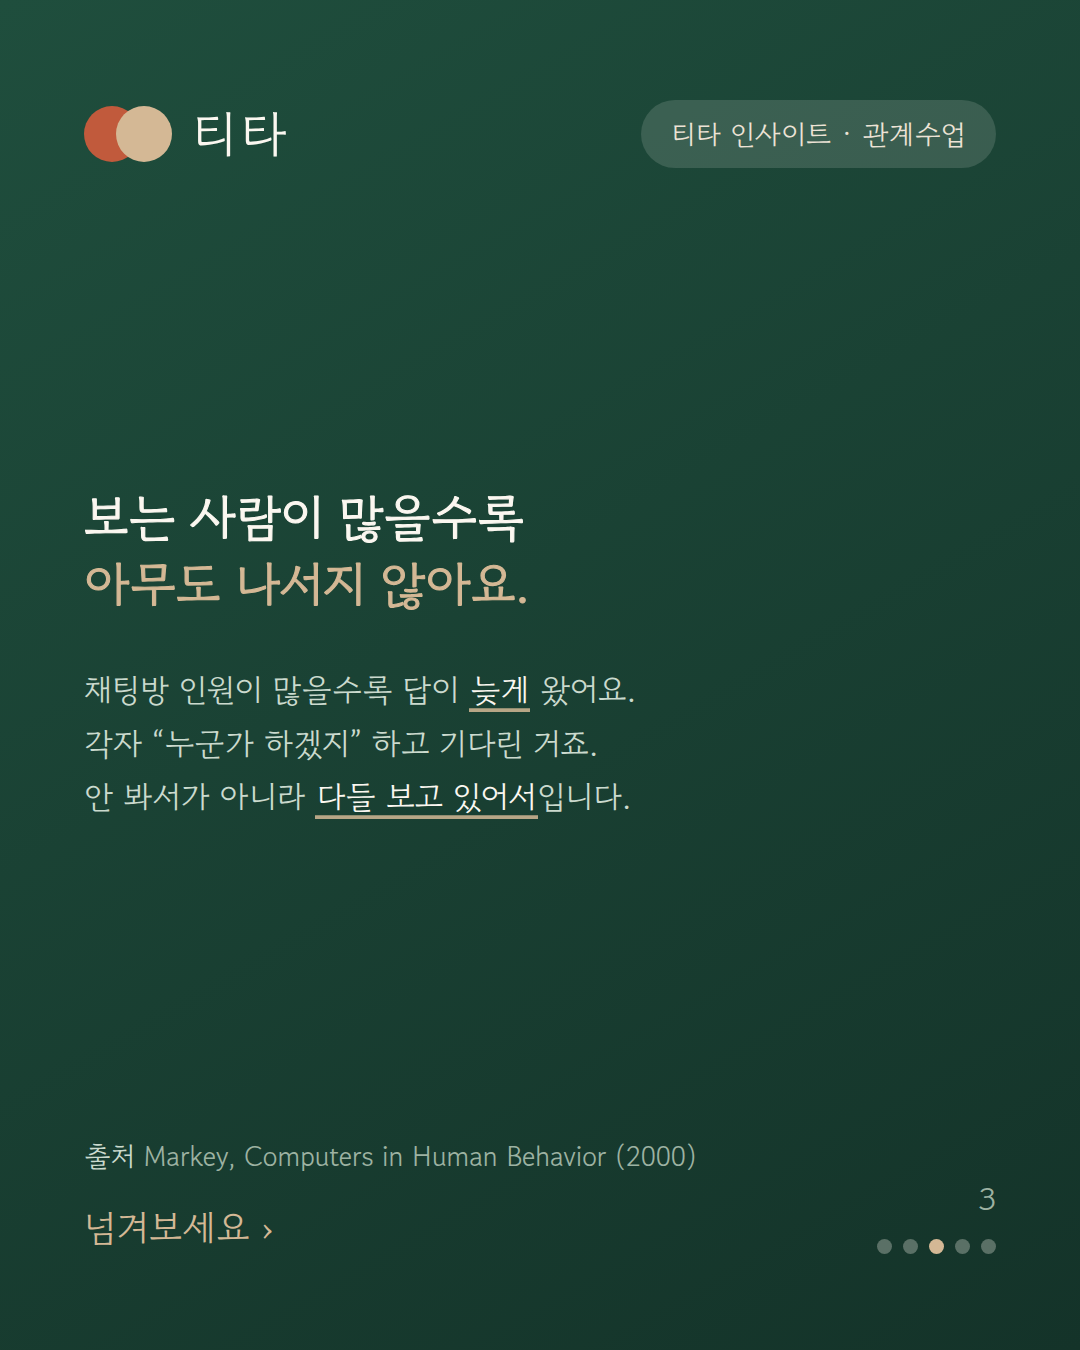
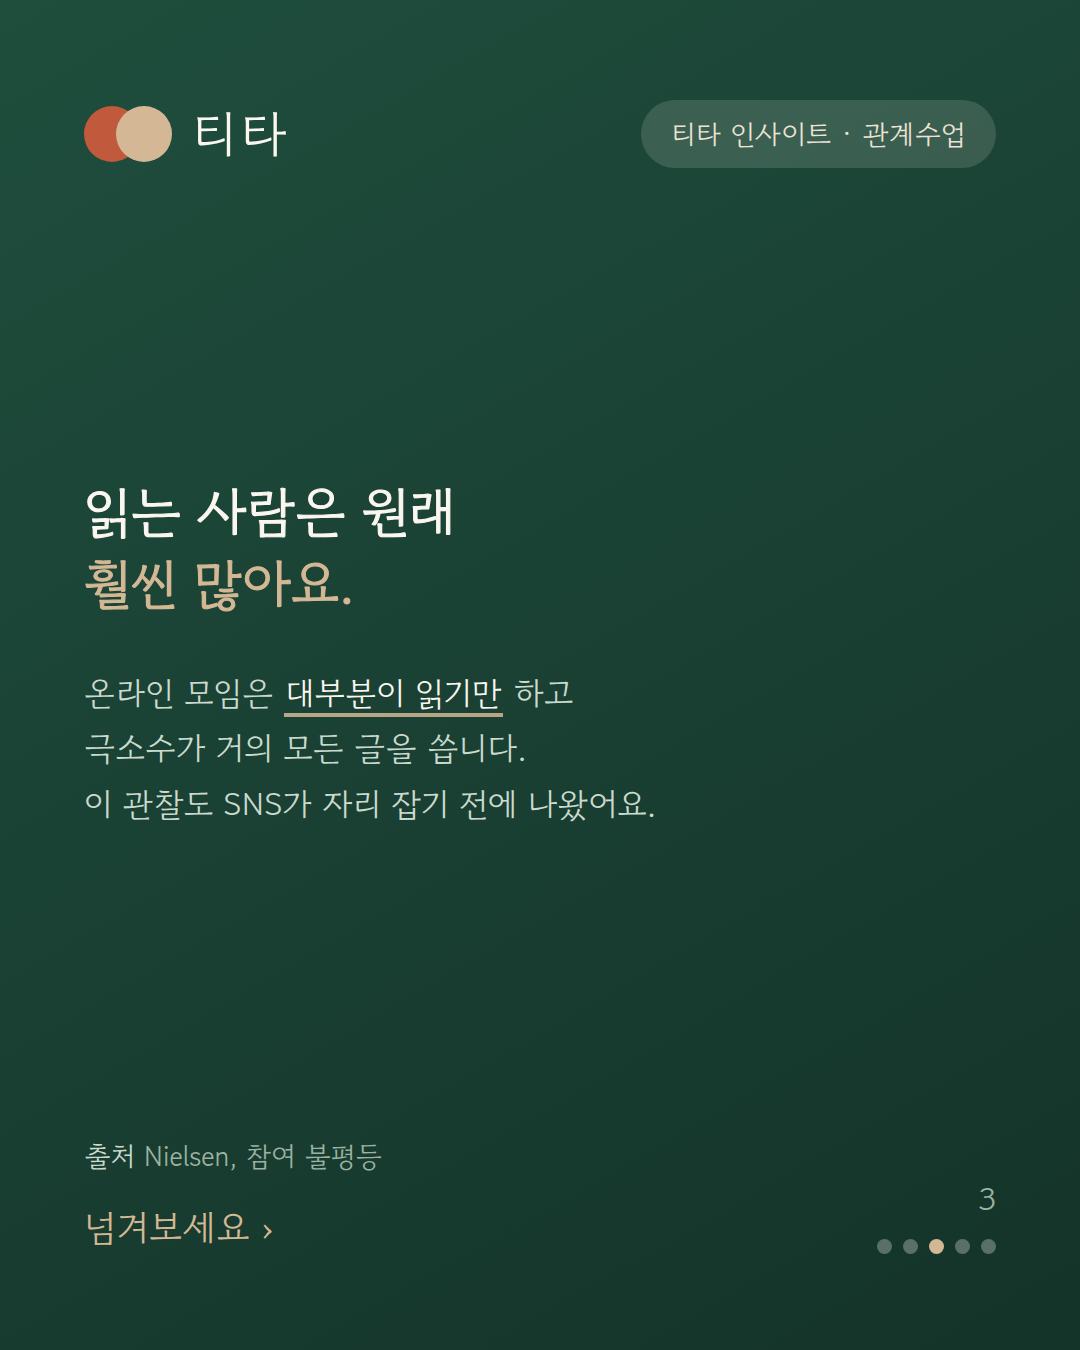
refactor(blog): 인사이트 14를 세대론 반박으로 다시 쓴다
'답글이 없는 이유' 대신 '말이 안 통하는 건 세대 탓이 아니다'를 축으로
삼는다. 방관자 효과는 1968년, 참여 불평등은 SNS 이전 관찰이라는 점이
세대론을 정면으로 반박하는 근거라서 이걸 앞으로 뺐다.

특정 커뮤니티 글을 인용한 듯 읽히는 표현은 모두 걷어냈다.
카드 1~3도 같은 순서로 다시 뽑았다. 4·5는 그대로다.

Claude-Session: https://claude.ai/code/session_01SVoaR1M7XWjiBzTKquaj1d

Changed region(s): [[0.0611, 0.4978, 0.6111, 0.6222], [0.0611, 0.3422, 0.4889, 0.4667], [0.1222, 0.84, 0.6417, 0.8711]]

diff --git a/src/app/blog/posts.ts b/src/app/blog/posts.ts
@@ -62,92 +62,96 @@ export interface BlogPost {
 export const POSTS: BlogPost[] = [
   {
     slug: "why-no-one-replies",
-    title: "글을 올렸는데 답이 없을 때 — 첫 한 줄이 없어서입니다",
+    title: "요즘 젊은 사람들은 말이 안 통한다고요 — 사실 우리도 그렇습니다",
     description:
-      "커뮤니티에 글을 올려도 답이 없습니다. 안 읽어서가 아닙니다. 10만 건을 무작위로 실험한 연구는 첫 반응 하나가 다음 반응을 32% 끌어올린다고 말합니다.",
+      "남의 말은 안 듣고 자기 얘기만 한다는 말, 젊은 세대만의 이야기가 아닙니다. 방관자 효과는 1968년에 발견됐습니다. 세대 탓이 아니라 사람이 여럿 모이면 생기는 일입니다.",
     date: "2026-08-10",
     category: "관계 인사이트",
     tags: [
       "5060",
-      "커뮤니티",
+      "세대",
       "소통",
-      "댓글",
+      "커뮤니티",
       "방관자 효과",
-      "온라인 모임",
       "대화",
       "인간관계",
+      "댓글",
     ],
     cover: "/blog/insight-14/card-1.png",
     readingMinutes: 6,
     body: [
       {
         type: "p",
-        text: "얼마 전 티타 커뮤니티에 이런 이야기가 올라왔습니다. 요즘 부쩍 느끼는데 **상대 말은 듣지 않고 자기 얘기만 하고, 남의 글은 읽지 않고 자기 글만 올리는** 사람이 많아진 것 같다고요. 소통은 어디로 갔느냐고요.",
+        text: "요즘 젊은 사람들은 말이 안 통한다는 얘기를 자주 듣습니다. 릴스만 넘기고, 남의 말은 듣지 않고, 자기 얘기만 한다고요.",
       },
       {
         type: "p",
-        text: "저희도 같은 걸 봅니다. 정성껏 쓴 글에 답이 하나도 안 달립니다. 그런데 자료를 찾아보니 **사람들이 무심해진 게 원인이 아니었습니다.** 그리고 무엇이 실제로 통하는지도 실험으로 나와 있었습니다.",
+        text: "그런데 조금만 솔직해지면, 우리 자리도 크게 다르지 않습니다. 모임에서도 각자 자기 얘기만 하다 헤어지고, 커뮤니티에 정성껏 쓴 글에는 아무 답이 없습니다. **말이 안 통하는 게 그 세대만의 일은 아닌 것 같습니다.**",
+      },
+      {
+        type: "p",
+        text: "자료를 찾아보니 그럴 만한 이유가 있었습니다. **이건 세대 문제가 아니었습니다.**",
       },
       {
         type: "image",
         src: "/blog/insight-14/card-1.png",
-        alt: "글에 답이 없는 건 안 읽어서가 아니라 첫 한 줄이 없어서라는 티타 인사이트 카드",
+        alt: "말이 안 통하는 건 세대 탓이 아니라는 티타 인사이트 카드",
         caption: "티타 인사이트 · 관계수업 #14",
       },
-      { type: "h2", text: "읽는 사람은 원래 훨씬 많습니다" },
+      { type: "h2", text: "스마트폰이 생기기 훨씬 전부터 그랬습니다" },
       {
         type: "image",
         src: "/blog/insight-14/card-2.png",
+        alt: "방관자 효과는 1968년에 발견됐고 스마트폰이 만든 현상이 아니라는 티타 인사이트 카드",
+        caption: "Darley & Latané (1968) · 방관자 효과",
+      },
+      {
+        type: "p",
+        text: "심리학에 **방관자 효과**라는 말이 있습니다. 도움이 필요한 상황에서 **지켜보는 사람이 많을수록 아무도 나서지 않는** 현상입니다. 각자 “누군가 하겠지” 하고 기다리다 결국 아무도 하지 않습니다. 이걸 **책임 분산**이라고 부릅니다.",
+      },
+      {
+        type: "p",
+        text: "이 현상이 처음 밝혀진 게 **1968년**입니다. 스마트폰도, 인터넷도, SNS도 없던 때입니다. 지금 젊은 사람들의 부모 세대, 아니 그 위 세대가 실험 참가자였습니다.",
+      },
+      {
+        type: "callout",
+        text: "남의 일에 나서지 않는 건 요즘 사람이 되어서가 아닙니다. 여럿이 있으면 원래 그렇게 됩니다.",
+      },
+      { type: "h2", text: "그리고 읽는 사람은 원래 훨씬 많습니다" },
+      {
+        type: "image",
+        src: "/blog/insight-14/card-3.png",
         alt: "온라인 모임은 대부분이 읽기만 하고 극소수가 대부분의 글을 쓴다는 참여 불평등 티타 인사이트 카드",
         caption: "Nielsen, 참여 불평등",
       },
       {
         type: "p",
-        text: "온라인 모임의 참여는 고르게 나뉘지 않습니다. 널리 쓰이는 기준선이 **90 : 9 : 1** 입니다. 90%는 읽기만 하고, 9%는 가끔 한마디 보태고, **1%가 거의 모든 글을 씁니다.**",
+        text: "온라인 모임의 참여도 고르게 나뉘지 않습니다. 널리 쓰이는 기준선이 **90 : 9 : 1** 입니다. 90%는 읽기만 하고, 9%는 가끔 한마디 보태고, **1%가 거의 모든 글을 씁니다.**",
       },
       {
         type: "p",
-        text: "이 숫자 자체는 오래된 관찰이라 요즘은 커뮤니티에 따라 70 : 20 : 10 정도로 완만해지기도 합니다. 그런데 **기울기가 가파르다는 사실만은 거의 어디서나 그대로**입니다. 조용한 다수와 소수의 글쓴이로 갈리는 구조는 변하지 않았습니다.",
+        text: "요즘은 커뮤니티에 따라 70 : 20 : 10 정도로 완만해지기도 합니다. 그래도 **기울기가 가파르다는 사실은 어디서나 비슷합니다.** 그리고 이 관찰도 지금의 SNS가 자리 잡기 전에 나온 것입니다.",
       },
       {
         type: "p",
-        text: "그러니 답글이 없다고 아무도 안 읽은 게 아닙니다. **읽은 사람 대부분은 원래 아무 흔적도 남기지 않습니다.**",
+        text: "그러니 답글이 없다고 아무도 안 읽은 게 아닙니다. **읽은 사람 대부분은 원래 아무 흔적도 남기지 않습니다.** 나이와 상관없이 그렇습니다.",
       },
-      { type: "h2", text: "보는 사람이 많을수록 아무도 나서지 않습니다" },
+      { type: "h2", text: "이름을 부르면 된다길래 해 봤습니다" },
       {
-        type: "image",
-        src: "/blog/insight-14/card-3.png",
-        alt: "채팅방에 사람이 많을수록 도움 요청에 답이 늦게 왔다는 온라인 방관자 효과 티타 인사이트 카드",
-        caption: "Markey, Computers in Human Behavior (2000)",
+        type: "p",
+        text: "온라인에서도 같은 일이 일어나는지 확인한 연구가 있습니다. 심리학자 패트릭 마키는 실제 채팅방에 들어가 “누구든 좀 알려 주실래요?” 하고 묻고, 방에 있는 사람 수와 답이 오기까지 걸린 시간을 쟀습니다. **사람이 많은 방일수록 답이 늦게 왔습니다.**",
       },
       {
         type: "p",
-        text: "심리학자 패트릭 마키는 온라인에서도 **방관자 효과**가 나타나는지 확인했습니다. 지켜보는 사람이 많을수록 아무도 나서지 않는 현상입니다. 그는 실제 채팅방에 들어가 “누구든 좀 알려 주실래요?” 하고 묻고, 방에 있는 사람 수와 답이 오기까지 걸린 시간을 쟀습니다.",
+        text: "이 연구에는 해법도 붙어 있었습니다. **특정한 사람의 이름을 넣어 물으면** 인원수와 상관없이 답이 왔다는 것입니다. 이름이 불린 사람에게는 “누군가 하겠지”가 성립하지 않으니까요.",
       },
       {
         type: "p",
-        text: "**사람이 많은 방일수록 답이 늦게 왔습니다.** 각자 “누군가 하겠지” 하고 기다린 것입니다. 심리학은 이걸 **책임 분산**이라고 부릅니다.",
-      },
-      {
-        type: "callout",
-        text: "아무도 안 봐서 답이 없는 게 아니라, 다들 보고 있어서 아무도 나서지 않는 것입니다.",
-      },
-      { type: "h2", text: "그런데 이름을 부르는 것으론 잘 안 됩니다" },
-      {
-        type: "p",
-        text: "이 연구에는 해법도 붙어 있습니다. 특정한 사람의 이름을 넣어 물으면 인원수와 상관없이 답이 왔다는 것입니다. 이름이 불린 사람에게는 “누군가 하겠지”가 성립하지 않으니까요.",
+        text: "그래서 저희도 해 봤습니다. **잘 되지 않았습니다.** 이유를 생각해 보니 자리가 달랐습니다. 그 연구의 채팅방은 **모두가 같은 시간에 들어와 있는** 곳이었습니다. 지금의 게시판은 **각자 다른 시간에 스치듯 지나갑니다.** 불린 이름이 그 사람에게 도착하지 않습니다.",
       },
       {
         type: "p",
-        text: "그래서 저희도 해 봤습니다. **잘 되지 않았습니다.** 이유를 생각해 보니 자리가 달랐습니다.",
-      },
-      {
-        type: "p",
-        text: "2000년의 채팅방은 **모두가 같은 시간에 같은 방에 들어와 있는** 곳이었습니다. 이름을 부르면 그 사람이 바로 그 자리에 있었습니다. 그런데 지금의 게시판과 피드는 다릅니다. **각자 다른 시간에 들어와 스치듯 지나갑니다.** 불린 이름이 그 사람에게 도착하지 않습니다.",
-      },
-      {
-        type: "p",
-        text: "그러니 답이 없는 걸 **글 쓰는 쪽에서 풀기는 어렵습니다.** 더 잘 쓴다고, 더 정확히 물어본다고 해결되지 않습니다. 다행히 다른 쪽에 답이 있었습니다.",
+        text: "그러니 이건 **글을 쓰는 쪽에서 풀 수 있는 문제가 아닙니다.** 더 잘 쓴다고, 더 정확히 물어본다고 해결되지 않습니다. 다행히 다른 쪽에 답이 있었습니다.",
       },
       { type: "h2", text: "첫 한 줄이 판을 바꿉니다" },
       {
@@ -158,19 +162,15 @@ export const POSTS: BlogPost[] = [
       },
       {
         type: "p",
-        text: "2013년 **사이언스**에 실린 실험입니다. 연구팀은 한 커뮤니티 사이트에서 **10만 건이 넘는 글**을 대상으로, 글이 올라오자마자 **무작위로** 첫 반응을 달았습니다. 어떤 글에는 긍정 반응을, 어떤 글에는 부정 반응을, 어떤 글에는 아무것도 달지 않았습니다.",
+        text: "2013년 **사이언스**에 실린 실험입니다. 연구팀은 한 커뮤니티 사이트에서 **10만 건이 넘는 글**을 대상으로, 글이 올라오자마자 **무작위로** 첫 반응을 달았습니다. 어떤 글에는 긍정 반응을, 어떤 글에는 부정 반응을, 어떤 글에는 아무것도 달지 않았습니다. **글의 내용과는 무관하게** 첫 반응만 조작한 것입니다.",
       },
       {
         type: "p",
-        text: "글의 내용과 무관하게 **첫 반응만** 조작한 것입니다. 결과는 분명했습니다.",
+        text: "첫 반응이 긍정이었던 글은 **최종 점수가 25% 높아졌습니다.** 그리고 다음 사람이 같은 반응을 할 확률이 **32% 올라갔습니다.**",
       },
       {
         type: "p",
-        text: "첫 반응이 긍정이었던 글은 **최종 점수가 25% 높아졌습니다.** 그리고 다음 사람이 같은 반응을 할 확률이 **32% 올라갔습니다.** 좋은 반응 하나가 다음 좋은 반응을 부른 것입니다.",
-      },
-      {
-        type: "p",
-        text: "흥미로운 건 반대 방향이었습니다. **첫 반응이 부정일 때는 그런 번짐이 거의 없었습니다.** 나쁜 반응은 잘 옮지 않고, 좋은 반응만 옮았습니다.",
+        text: "흥미로운 건 반대 방향이었습니다. **첫 반응이 부정일 때는 그렇게 번지지 않았습니다.** 나쁜 반응은 잘 옮지 않고, 좋은 반응만 옮았습니다.",
       },
       {
         type: "callout",
@@ -180,37 +180,20 @@ export const POSTS: BlogPost[] = [
       {
         type: "image",
         src: "/blog/insight-14/card-5.png",
-        alt: "내가 뭐라고 이미 누가 했겠지 하며 망설이다 창을 닫는다는 티타 인사이트 카드",
+        alt: "우리 서로 아는 척 해 볼까요 — 읽었다는 기척 하나면 된다는 티타 인사이트 카드",
         caption: "@titakorea",
       },
       {
         type: "p",
-        text: "문제는 첫 번째가 되는 일이 가장 부담스럽다는 점입니다. 읽고 마음이 움직였는데도 손이 멈춥니다.",
+        text: "읽고 마음이 움직였는데도 손이 멈추는 순간이 있습니다. **‘내가 뭐라고 아는 척을 하나.’ ‘이미 누가 답했겠지.’ ‘올린 지 좀 됐는데 지금 달면 이상한가.’** 그렇게 창을 닫습니다.",
       },
       {
         type: "p",
-        text: "**‘내가 뭐라고 아는 척을 하나.’ ‘이미 누가 답했겠지.’ ‘올린 지 좀 됐는데 지금 달면 이상한가.’** 그렇게 창을 닫습니다. 최근 연구들도 눈팅을 무관심으로 보지 않습니다. 피로, 사생활, 그리고 **딱히 보탤 말이 없다는 느낌**이 더 큰 이유였습니다.",
+        text: "그 망설임은 대개 **배려에서 나옵니다.** 그런데 글쓴이에게는 **무관심으로 읽힙니다.** 각자 조용히 배려하다가 서로를 무심하다고 오해하는 셈입니다.",
       },
       {
         type: "p",
-        text: "그런데 그 망설임은 글쓴이에게 **무관심으로 읽힙니다.** 각자 조용히 배려하다가 서로를 무심하다고 오해하는 셈입니다.",
-      },
-      { type: "h2", text: "그래서 이렇게 해 보시면 좋겠습니다" },
-      {
-        type: "p",
-        text: "**한 줄이면 충분합니다.** “저도 그랬어요.” “읽었습니다.” 잘 쓴 답글이 필요한 게 아닙니다. 실험이 보여 준 건 내용의 힘이 아니라 **첫 반응이 있었다는 사실**의 힘이었습니다.",
-      },
-      {
-        type: "p",
-        text: "마땅한 말이 안 떠오르면 **좋아요만 눌러도 됩니다.** 그것도 첫 반응입니다. 그다음 사람이 훨씬 쉽게 손을 댑니다.",
-      },
-      {
-        type: "p",
-        text: "그리고 **오래된 글에도 달아 주세요.** 늦어서 이상한 게 아닙니다. 올린 지 한참 지난 글에 달린 한 줄이 대체로 가장 반갑습니다.",
-      },
-      {
-        type: "p",
-        text: "커뮤니티가 조용해지는 건 사람들이 변해서가 아닙니다. **첫 한 명이 없어서**입니다. 그 자리는 대단한 사람이 아니라, 오늘 그 글을 읽은 사람이 채웁니다.",
+        text: "젊은 사람들도 아마 같은 자리에 있을 겁니다. 릴스를 넘기며 좋다고 생각하지만 아무 표시도 남기지 않고 지나갑니다. **말이 안 통해서가 아니라, 말을 얹는 첫 번째가 되기가 누구에게나 어려워서**입니다.",
       },
       { type: "h2", text: "우리는 같은 마음으로 모였습니다" },
       {
@@ -223,14 +206,18 @@ export const POSTS: BlogPost[] = [
       },
       {
         type: "p",
-        text: "그러니 오늘은 **서로 아는 척 한 번 해 볼까요.** 잘 쓴 답글이 아니라 읽었다는 기척 하나면 됩니다. 그 한 줄이 다음 사람을 부르고, 그다음 사람이 또 부릅니다. 실험이 보여 준 게 정확히 그것이었습니다.",
+        text: "그러니 오늘은 **서로 아는 척 한 번 해 볼까요.** 잘 쓴 답글이 아니라 읽었다는 기척 하나면 됩니다. 마땅한 말이 안 떠오르면 좋아요만 눌러도 되고, 올린 지 한참 된 글에 달아도 됩니다. **늦게 달린 한 줄이 대체로 가장 반갑습니다.**",
       },
       {
         type: "quote",
-        text: "답이 없는 건 아무도 안 읽어서가 아닙니다. 다들 읽으면서, 각자 두 번째를 기다리고 있어서입니다.",
+        text: "말이 안 통하는 건 세대 탓이 아니었습니다. 다들 읽으면서, 각자 두 번째를 기다리고 있어서였습니다.",
       },
     ],
     sources: [
+      {
+        label:
+          "Darley & Latané (1968) — 방관자 효과와 책임 분산. 지켜보는 사람이 많을수록 개인이 나설 확률이 낮아진다. 인터넷 이전에 밝혀진 현상이다",
+      },
       {
         label:
           "Muchnik, Aral & Taylor, 「Social Influence Bias: A Randomized Experiment」 (Science, 2013) — 10만 건이 넘는 게시물에 무작위로 첫 반응을 조작. 첫 긍정 반응이 최종 점수를 25% 높였고 이어지는 긍정 반응 확률을 32% 높였다. 첫 부정 반응은 장기 효과가 작았다",
@@ -238,27 +225,23 @@ export const POSTS: BlogPost[] = [
       },
       {
         label:
-          "Patrick M. Markey, 「Bystander intervention in computer-mediated communication」 (Computers in Human Behavior, 2000) — 채팅방 인원이 많을수록 도움 요청에 대한 응답이 늦어졌다. 특정인의 이름을 부르면 그 효과가 사라졌으나, 이는 참여자가 동시에 접속해 있는 실시간 채팅 환경에서의 결과다",
+          "Patrick M. Markey, 「Bystander intervention in computer-mediated communication」 (Computers in Human Behavior, 2000) — 채팅방 인원이 많을수록 응답이 늦어졌고, 특정인의 이름을 부르면 그 효과가 사라졌다. 다만 참여자가 동시에 접속해 있는 실시간 환경에서의 결과다",
         url: "https://www.sciencedirect.com/science/article/abs/pii/S0747563299000564",
       },
       {
         label:
-          "Jakob Nielsen, 「Participation Inequality: The 90-9-1 Rule for Social Features」 (Nielsen Norman Group, 2006) — 온라인 커뮤니티의 90%는 읽기만 하고 1%가 대부분의 기여를 한다. 최근에는 커뮤니티 성격에 따라 70-20-10에 가깝게 완만해지기도 하나, 가파른 기울기 자체는 대부분의 커뮤니티에서 관찰된다",
+          "Jakob Nielsen, 「Participation Inequality: The 90-9-1 Rule for Social Features」 (Nielsen Norman Group, 2006) — 온라인 커뮤니티의 90%는 읽기만 하고 1%가 대부분의 기여를 한다. 커뮤니티 성격에 따라 70-20-10에 가깝기도 하나 가파른 기울기는 대체로 공통이다",
         url: "https://www.nngroup.com/articles/participation-inequality/",
-      },
-      {
-        label:
-          "Darley & Latané (1968) — 방관자 효과와 책임 분산. 지켜보는 사람이 많을수록 개인이 나설 확률이 낮아진다",
       },
     ],
     faq: [
       {
-        q: "글에 답글이 없으면 아무도 안 읽은 건가요?",
-        a: "아닙니다. 온라인 모임은 대체로 읽기만 하는 사람이 절대다수이고 극소수가 대부분의 글을 씁니다. 커뮤니티에 따라 비율은 달라지지만 기울기가 가파르다는 점은 대부분 공통입니다. 읽은 사람 대부분은 원래 흔적을 남기지 않습니다.",
+        q: "남의 말을 안 듣는 게 요즘 세대의 특징인가요?",
+        a: "그렇게 보기 어렵습니다. 지켜보는 사람이 많을수록 아무도 나서지 않는 방관자 효과는 1968년에 밝혀졌습니다. 인터넷도 스마트폰도 없던 시절입니다. 온라인 모임에서 대다수가 읽기만 한다는 관찰도 지금의 SNS가 자리 잡기 전에 나왔습니다. 세대의 문제라기보다 사람이 여럿 모이면 생기는 일에 가깝습니다.",
       },
       {
-        q: "답을 받으려면 글을 어떻게 써야 하나요?",
-        a: "글 쓰는 쪽에서 풀기는 생각보다 어렵습니다. 2000년 채팅방 연구에서는 특정인의 이름을 부르면 응답이 빨라졌지만, 그건 모두가 같은 시간에 접속해 있던 실시간 환경이었습니다. 각자 다른 시간에 들어오는 게시판과 피드에서는 그 부름이 도착하지 않는 경우가 많습니다.",
+        q: "글에 답글이 없으면 아무도 안 읽은 건가요?",
+        a: "아닙니다. 온라인 모임은 대체로 읽기만 하는 사람이 절대다수이고 극소수가 대부분의 글을 씁니다. 읽은 사람 대부분은 원래 흔적을 남기지 않기 때문에, 답글이 없다고 해서 읽히지 않은 것은 아닙니다.",
       },
       {
         q: "댓글 하나가 정말 차이를 만드나요?",
